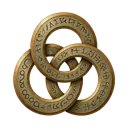
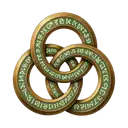
Show remnant portraits and new faction symbols, and keep Ashen immune to touch.
Dead players use their blue remnant portrait wherever a role portrait is already shown. Lumen and Unaligned symbols are the approved art, cache-busted. Ashen players cannot be marked Ash Touched or Mire Touched.

Changed region(s): [[0.0938, 0.0938, 0.9062, 0.9062]]

diff --git a/src/App.jsx b/src/App.jsx
@@ -1,24 +1,52 @@
 import { useEffect, useMemo, useState } from "react";
 
 const TOKEN_KEY = "aol-seat-token";
+const ASSET_VERSION = "3";
 
-function Portrait({ roleId, name, size = 112 }) {
+function symbolFile(team) {
+  if (team === "Ashen" || team === "ashen") return "symbol-ashen-128";
+  if (team === "Unaligned" || team === "unaligned") return "symbol-unaligned-128";
+  return "symbol-lumen-128";
+}
+
+function symbolSrc(team) {
+  return `/symbols/${symbolFile(team)}.webp?v=${ASSET_VERSION}`;
+}
+
+function Portrait({ roleId, name, size = 112, dead = false }) {
   if (!roleId) return null;
+  const src = dead
+    ? `/portraits-remnant/${roleId}-remnant.webp?v=${ASSET_VERSION}`
+    : `/portraits/${roleId}.webp?v=${ASSET_VERSION}`;
+  const height = size === 112 ? Math.round(size * 1.25) : Math.round(size * 4 / 3);
   return (
     <img
-      src={`/portraits/${roleId}.webp`}
+      src={src}
       alt=""
       width={size}
-      height={size}
+      height={height}
+      data-testid={dead ? "remnant-portrait" : "portrait"}
+      data-role={roleId}
       className="object-cover"
-      style={{ width: size, height: size === 112 ? Math.round(size * 1.25) : size }}
+      style={{ width: size, height }}
     />
   );
 }
 
 function Symbol({ team, size = 22 }) {
-  const file = team === "Ashen" || team === "ashen" ? "symbol-ashen-128" : team === "Unaligned" || team === "unaligned" ? "symbol-unaligned-128" : "symbol-lumen-128";
-  return <img src={`/symbols/${file}.webp`} alt="" width={size} height={size} style={{ width: size, height: size }} />;
+  return <img src={symbolSrc(team)} alt="" data-testid={`symbol-${symbolFile(team)}`} width={size} height={size} style={{ width: size, height: size }} />;
+}
+
+function FrameCorners({ team }) {
+  const spots = [
+    { top: 4, left: 4 },
+    { top: 4, right: 4 },
+    { bottom: 4, left: 4 },
+    { bottom: 4, right: 4 },
+  ];
+  return spots.map((spot) => (
+    <img key={`${spot.top ?? "b"}-${spot.left ?? "r"}`} src={symbolSrc(team)} alt="" data-testid="frame-symbol" className="pointer-events-none absolute h-5 w-5" width={20} height={20} style={spot} />
+  ));
 }
 
 function Crest({ roleId, alignment, size = 76 }) {
@@ -417,19 +445,19 @@ function GmTable({ state, act }) {
       {state.players.map((player) => (
         <article key={player.id} className="panel p-4" data-testid="player-row">
           <div className="flex items-center gap-3">
-            <Portrait roleId={player.roleId} name={player.roleName} size={72} />
+            <Portrait roleId={player.roleId} name={player.roleName} size={72} dead={!player.alive} />
             <div>
               <h3 className="text-lg font-semibold">{player.name} {!player.alive && <span className="text-[#e15b4c]">· dead</span>}</h3>
-              <p className="text-[#e6c27a]">{player.roleName || "Undealt"} · {player.alignment}</p>
+              <p className="flex items-center text-[#e6c27a]"><Symbol team={player.alignment} /> {player.roleName || "Undealt"} · {player.alignment}</p>
             </div>
           </div>
           <div className="mt-2 flex flex-wrap gap-1 text-xs">
             {chips(player).map((chip) => <span key={chip} className="rounded-full border border-[#8a7038] px-2 py-1">{chip}</span>)}
-            <button type="button" className="rounded-full border border-[#c9a85a] px-2 py-1" onClick={() => act({ type: "ash-touched", playerId: player.id })}>Set Ash Touched</button>
+            <button type="button" data-testid="set-ash" className="rounded-full border border-[#c9a85a] px-2 py-1 disabled:opacity-40" disabled={player.alignment === "Ashen"} title={player.alignment === "Ashen" ? "Ashen are immune" : "Set Ash Touched"} onClick={() => act({ type: "ash-touched", playerId: player.id })}>Set Ash Touched</button>
             <button type="button" data-testid="undo-ash" className="rounded-full border border-[#c9a85a] px-2 py-1" onClick={() => act({ type: "undo-ash", playerId: player.id })}>Undo Ash Touched</button>
             <button type="button" data-testid="gm-kill" className="rounded-full border border-[#e15b4c] px-2 py-1" onClick={() => act({ type: "gm-kill", playerId: player.id })}>Kill player</button>
             <button type="button" data-testid="undo-kill" className="rounded-full border border-[#e15b4c] px-2 py-1" onClick={() => act({ type: "undo-kill", playerId: player.id })}>Undo kill</button>
-            <button type="button" data-testid="gm-mire" className="rounded-full border border-[#c9a85a] px-2 py-1" onClick={() => act({ type: "gm-mire", playerId: player.id })}>Set Mire Touched</button>
+            <button type="button" data-testid="gm-mire" className="rounded-full border border-[#c9a85a] px-2 py-1 disabled:opacity-40" disabled={player.alignment === "Ashen"} title={player.alignment === "Ashen" ? "Ashen are immune" : "Set Mire Touched"} onClick={() => act({ type: "gm-mire", playerId: player.id })}>Set Mire Touched</button>
             <button type="button" data-testid="undo-mire" className="rounded-full border border-[#c9a85a] px-2 py-1" onClick={() => act({ type: "undo-mire", playerId: player.id })}>Undo Mire Touched</button>
           </div>
           <label className="mt-3 grid gap-1 text-xs text-[#d9c7b6]">
@@ -591,7 +619,15 @@ function Voting({ state, act }) {
     <section className="panel grid gap-3 p-4" data-testid="voting-tab">
       <h2 className="serif text-2xl">Nominations</h2>
       {(state.nominations || []).length === 0 && <p className="text-sm text-[#d9c7b6]">No nominations yet.</p>}
-      {(state.nominations || []).map((row, index) => <p key={index} className="text-sm">{row.byName} nominated {row.targetName}.</p>)}
+      {(state.nominations || []).map((row, index) => {
+        const person = state.players.find((p) => p.name === row.targetName);
+        return (
+          <p key={index} className="flex items-center gap-2 text-sm">
+            {person?.roleId && <Portrait roleId={person.roleId} name={person.roleName} size={40} dead={!person.alive} />}
+            {row.byName} nominated {row.targetName}.
+          </p>
+        );
+      })}
       <h2 className="serif text-2xl">Votes</h2>
       {(state.votes || []).length === 0 && <p className="text-sm text-[#d9c7b6]">No votes yet.</p>}
       {(state.votes || []).map((row) => <p key={row.name} className="text-sm">{row.name} voted {row.choice}.</p>)}
@@ -697,12 +733,12 @@ function RoleHome({ state }) {
       <article className="panel p-4">
         {you.roleId ? (
           <div>
-            <div className="relative">
-              <img src={`/symbols/${you.alignment === "Ashen" ? "symbol-ashen" : you.alignment === "Unaligned" ? "symbol-unaligned" : "symbol-lumen"}-128.webp`} alt="" className="absolute right-2 top-2 h-6 w-6" />
-              <Portrait roleId={you.roleId} name={you.roleName} size={280} />
+            <div className="relative inline-block" data-testid="role-frame">
+              <FrameCorners team={you.alignment} />
+              <Portrait roleId={you.roleId} name={you.roleName} size={220} dead={!you.alive} />
             </div>
             <h2 className="serif mt-3 text-3xl uppercase" data-testid="role-name">{you.roleName}</h2>
-            <p className="label text-xs text-[#c9a85a]"><Symbol team={you.alignment} /> {you.alignment}</p>
+            <p className="label flex items-center text-xs text-[#c9a85a]" data-testid="role-chip"><Symbol team={you.alignment} /> {you.alignment}</p>
             {you.roleId === "the-ashen-child" && <p className="mt-2 bg-[#9e1b1b] px-2 py-1 text-xs uppercase tracking-widest">Do not let them execute you.</p>}
             {you.roleId === "the-shadow-blade" && <p className="mt-2 italic text-[#9c8dae]">Earn trust first, strike later.</p>}
             {you.roleId === "voice-of-the-accord" && <p className="label mt-2 text-xs text-[#e8cf8a]">Your vote counts as 2.</p>}
@@ -715,7 +751,7 @@ function RoleHome({ state }) {
         ) : <h2 className="serif text-3xl">Waiting for the deal</h2>}
         {you.ability && <p className="mt-3 text-[#f3eedf]">{you.ability}</p>}
         {you.teammates && (
-          <p className="mt-3 text-sm" data-testid="teammates">Ashen teammates: {you.teammates.length ? you.teammates.join(", ") : "you are the only one"}.</p>
+          <p className="mt-3 flex items-center text-sm" data-testid="teammates"><Symbol team="Ashen" /> Ashen teammates: {you.teammates.length ? you.teammates.join(", ") : "you are the only one"}.</p>
         )}
       </article>
       <section className="panel p-4" data-testid="seat-list">
@@ -755,7 +791,7 @@ function Catalogue({ roles, onClose }) {
     roles: roles.filter((role) => role.team === team),
   })), [roles]);
   return (
-    <div className="fixed inset-0 z-10 overflow-auto bg-[#140e0c]/95 p-4" data-testid="catalogue">
+    <div className="fixed inset-0 z-10 overflow-auto bg-[#140e0c] p-4" data-testid="catalogue">
       <div className="mx-auto max-w-3xl">
         <div className="flex items-center justify-between">
           <h2 className="serif text-3xl">Every role</h2>
@@ -764,7 +800,7 @@ function Catalogue({ roles, onClose }) {
         <p className="mt-2 text-sm text-[#a89a86]">The full catalogue of all 26 roles, the same in every game. It does not say which roles were dealt.</p>
         {groups.map((group) => (
           <section key={group.team} className="mt-4">
-            <h3 className="label text-xs text-[#c9a85a]"><Symbol team={group.team} /> {group.team}</h3>
+            <h3 className="label flex items-center text-xs text-[#c9a85a]" data-testid={`catalogue-${group.team}`}><Symbol team={group.team} /> {group.team}</h3>
             {group.roles.map((role) => <RoleCard key={role.id} role={role} />)}
           </section>
         ))}
@@ -782,7 +818,7 @@ function RoleCard({ role }) {
       <div>
         <h4 className="serif text-xl uppercase">{role.name}</h4>
         <p className="text-sm text-[#a89a86]">{role.short}</p>
-        <p className="text-xs uppercase tracking-wider text-[#b5a394]">{role.team}</p>
+        <p className="flex items-center text-xs uppercase tracking-wider text-[#b5a394]"><Symbol team={role.team} size={16} /> {role.team}</p>
         <button type="button" data-testid={`more-info-${role.id}`} className="mt-2 text-sm underline" onClick={() => setOpen((value) => !value)}>More info</button>
         {open && <p className="mt-2 text-sm" data-testid={`role-detail-${role.id}`}>{role.ability}</p>}
         {open && thin && <p className="mt-2 text-xs text-[#e6c27a]" data-testid="thin-role">The rule text for this role is short.</p>}

diff --git a/local-render/canvas-source.tsx b/local-render/canvas-source.tsx
@@ -1961,7 +1961,10 @@ function resolveAshFall(state: GameState): GameState {
     }
     const t = playerById(next.players, tid);
     if (!t || !t.alive) continue;
-    if (t.team === "Ashen") continue;
+    if (t.team === "Ashen") {
+      next = addLog(next, "Poison on " + t.name + " did not land: Ashen are immune to Mire Touched.");
+      continue;
+    }
     if (immunityBlocks(t, "poison")) {
       next = addLog(
         next,
@@ -2077,6 +2080,7 @@ function resolveAshFall(state: GameState): GameState {
         // Design default D14 (Nov 21 audit): The Lumen Guard is immune to all poison. D45: the pool is living players other
         // than the Eye (off: the Eye can poison itself); it can land on the checked player.
         const pool = livingPlayers(next.players).filter((p: Player) => {
+          if (p.team === "Ashen") return false;
           if (immunityBlocks(p, "poison")) return false;
           if (dd(next, "D45") && p.id === actor.id) return false;
           return true;
@@ -2430,6 +2434,10 @@ function executePlayer(state: GameState, id: string, voterIdsForParadox: string[
     for (const vid of voterIdsForParadox) {
       const v = playerById(next.players, vid);
       if (!v || !v.alive) continue;
+      if (v.team === "Ashen") {
+        next = addLog(next, v.name + " voted for The Luminary Paradox but is not poisoned: Ashen are immune to Mire Touched.");
+        continue;
+      }
       if (immunityBlocks(v, "poison")) {
         next = addLog(next, v.name + " voted for The Luminary Paradox but is not poisoned: The Lumen Guard is immune to all poison (Design default D14, Nov 21 audit).");
         continue;
@@ -2662,7 +2670,7 @@ function applyForcedDeal(
     p.roleId = seat.roleId;
     p.team = role.team;
     p.charges = role.charged ? charges : 0;
-    p.ashTouched = Boolean(seat.ashTouched);
+    p.ashTouched = Boolean(seat.ashTouched) && role.team !== "Ashen";
     if (seat.roleId === "the-syndic") p.syndicateMember = true;
     return p;
   });
@@ -2706,6 +2714,8 @@ function applyForcedDeal(
   };
   next = addLog(next, distributionLabel(names.length, unalignedPick, rechargeAt));
   next = addLog(next, "Roles have been assigned (forced deal). The Ashen Tyrant is in the game.");
+  const refused = clean.filter((seat: { ashTouched?: boolean; roleId: string; name: string }) => seat.ashTouched && roleOf(seat.roleId).team === "Ashen");
+  for (const seat of refused) next = addLog(next, seat.name + " was not marked Ash Touched. Ashen are immune.");
   const atCount = players.filter((pl: Player) => pl.ashTouched).length;
   if (atCount > 1) next = addLog(next, "Warning: " + atCount + " players are marked Ash Touched. Caden: exactly 1 per game. Fix it on the modifier tracker.");
   next = setupStartInfo(next);
@@ -2813,6 +2823,7 @@ function canEchoCopy(roleId: string): boolean {
 // Caden ruling (Nov 16, 2026): exactly 1 Ash Touched per game, placed by the GM. Setting one clears any other.
 function setAshTouched(prev: GameState, playerId: string): GameState {
   const p = playerById(prev.players, playerId);
+  if (p && p.team === "Ashen") return addLog(prev, p.name + " was not marked Ash Touched. Ashen are immune.");
   const next = { ...prev, players: prev.players.map((x: Player) => ({ ...x, ashTouched: x.id === playerId })) };
   return addLog(next, p ? "GM placed Ash Touched on " + p.name + " (GM only; exactly 1 per game)." : "GM cleared Ash Touched.");
 }
@@ -5838,8 +5849,11 @@ function ModifierForm(props: {
       <div style={wrap}>
         <button
           type="button"
+          title={p.team === "Ashen" ? "Ashen are immune" : "Ash Touched"}
+          disabled={p.team === "Ashen"}
           style={btnStyle(p.ashTouched ? "gold" : "quiet")}
           onClick={() => {
+            if (p.team === "Ashen") return;
             // Caden: exactly 1 Ash Touched per game. Turning it on here clears it from everyone else.
             const on = !p.ashTouched;
             for (const q of props.players) {
@@ -5850,7 +5864,7 @@ function ModifierForm(props: {
         >
           Ash Touched{p.ashTouched ? " (on — the 1 per game)" : ""}
         </button>
-        <button type="button" style={btnStyle(p.mireTouched ? "gold" : "quiet")} onClick={() => toggle("mireTouched")}>
+        <button type="button" title={p.team === "Ashen" ? "Ashen are immune" : "Mire Touched"} disabled={p.team === "Ashen"} style={btnStyle(p.mireTouched ? "gold" : "quiet")} onClick={() => { if (p.team !== "Ashen") toggle("mireTouched"); }}>
           Mire Touched{p.mireTouched ? " (on)" : ""}
         </button>
         <button type="button" style={btnStyle(p.shielded ? "gold" : "quiet")} onClick={() => toggle("shielded")}>

diff --git a/test/batch.test.js b/test/batch.test.js
@@ -2,7 +2,9 @@ import assert from "node:assert/strict";
 import test from "node:test";
 import { start } from "../server/index.js";
 import { reduce, viewFor } from "../server/table.mjs";
-import { ROLES, applyForcedDeal, blankState, startRound } from "../sim/dist/engine.js";
+import { createHash } from "node:crypto";
+import fs from "node:fs";
+import { ROLES, applyForcedDeal, blankState, resolveAshFall, setAshTouched, startRound, submitPlayerAction } from "../sim/dist/engine.js";
 
 async function call(port, path, { token, body } = {}) {
   const res = await fetch(`http://127.0.0.1:${port}${path}`, {
@@ -271,4 +273,46 @@ test("Ashen Mind list, GM kill and mire notes, and no automatic ending", () => {
   const mindEnded = viewFor(state, { kind: "player", playerId: byName("Mina").id, name: "Mina" }, extras);
   assert.equal(linked(mindEnded, "Fern", "the-foresight-elder", "The Foresight Elder"), false);
   assert.equal(linked(mindEnded, "Cora", "the-civic-luminary", "The Civic Luminary"), false);
+});
+
+test("new faction symbols, remnant portraits, and Ashen immunity to Ash and Mire Touched", () => {
+  const hash = (file) => createHash("sha256").update(fs.readFileSync(file)).digest("hex");
[3 lines of base64/hex data omitted]
+  const slugs = fs.readdirSync("public/portraits").filter((name) => name.endsWith(".webp")).map((name) => name.replace(/\.webp$/, ""));
+  assert.equal(slugs.length, 26);
+  for (const slug of slugs) assert.equal(fs.existsSync(`public/portraits-remnant/${slug}-remnant.webp`), true, slug);
+
+  let state = applyForcedDeal(blankState(), [
+    { name: "Tor", roleId: "the-ashen-tyrant", ashTouched: true },
+    { name: "Mire", roleId: "the-ashen-mirebane" },
+    { name: "Ann", roleId: "voice-of-the-accord" },
+    { name: "Ben", roleId: "the-lumen-guard" },
+    { name: "Cora", roleId: "the-civic-luminary" },
+  ]);
+  const id = (name) => state.players.find((p) => p.name === name).id;
+  assert.equal(state.players.find((p) => p.name === "Tor").ashTouched, false);
+  assert.match(state.log.map((line) => line.text).join("\n"), /Ashen are immune/);
+  state = setAshTouched(state, id("Tor"));
+  assert.equal(state.players.find((p) => p.name === "Tor").ashTouched, false);
+  state = setAshTouched(state, id("Ann"));
+  assert.equal(state.players.find((p) => p.name === "Ann").ashTouched, true);
+  assert.equal(state.players.find((p) => p.name === "Tor").ashTouched, false);
+  const refused = reduce({ ...state, holdWin: true }, { type: "gm-mire", playerId: id("Tor") });
+  assert.equal(refused.players.find((p) => p.name === "Tor").gmMire, undefined);
+  assert.equal(refused.players.find((p) => p.name === "Tor").mireTouched, false);
+  const noted = reduce(refused, { type: "gm-mire", playerId: id("Ann") });
+  assert.equal(noted.players.find((p) => p.name === "Ann").gmMire, true);
+  const annView = viewFor(noted, { kind: "player", playerId: id("Ann"), name: "Ann" }, { chats: [], statements: [], code: "ART" });
+  assert.equal(JSON.stringify(annView).includes("gmMire"), false);
+
+  state = startRound({ ...state, holdWin: true }, true);
+  const mire = state.players.find((p) => p.name === "Mire");
+  const tor = state.players.find((p) => p.name === "Tor");
+  state = submitPlayerAction(state, mire, "Mirebane poison", [tor.id], false, "", "ashFall", false);
+  state = resolveAshFall(state);
+  assert.equal(state.players.find((p) => p.name === "Tor").mireTouched, false);
+  assert.equal(state.players.find((p) => p.name === "Tor").poisonCount, 0);
+  assert.match(state.log.map((line) => line.text).join("\n"), /Poison on Tor did not land: Ashen are immune to Mire Touched/);
 });

diff --git a/test/e2e.spec.js b/test/e2e.spec.js
@@ -167,24 +167,43 @@ test("GM kill and mire notes stay private, and the table does not end itself", a
   const tyrant = gm.getByTestId("player-row").filter({ hasText: "The Ashen Tyrant" });
   const tyrantName = (await tyrant.locator("h3").innerText()).trim();
   const seat = players[NAMES.indexOf(tyrantName)];
+  await expect(tyrant.getByTestId("set-ash")).toBeDisabled();
+  await expect(tyrant.getByTestId("gm-mire")).toBeDisabled();
+  await expect(tyrant.getByTestId("set-ash")).toHaveAttribute("title", "Ashen are immune");
+  await expect(tyrant.getByTestId("gm-mire")).toHaveAttribute("title", "Ashen are immune");
   await tyrant.getByTestId("gm-kill").click();
   await expect(tyrant.locator("h3")).toContainText("dead");
+  await expect(tyrant.getByTestId("remnant-portrait")).toHaveAttribute("src", /the-ashen-tyrant-remnant\.webp/);
+  await expect(seat.getByTestId("remnant-portrait")).toHaveAttribute("src", /the-ashen-tyrant-remnant\.webp/);
   await expect(gm.getByTestId("win-suggestion")).toContainText("Lumen win condition met");
   await expect(gm.locator("h1")).toContainText("Roles dealt");
   await expect(seat.getByTestId("public-log")).toContainText(`Died tonight: ${tyrantName}.`);
   await expect(seat.getByText("win condition met")).toHaveCount(0);
+  await gm.getByTestId("gm-table").screenshot({ path: "/opt/cursor/artifacts/gm-table-remnant.png" });
+  await seat.screenshot({ path: "/opt/cursor/artifacts/dead-player-role-card.png", fullPage: true });
   await tyrant.getByTestId("undo-kill").click();
   await expect(tyrant.locator("h3")).not.toContainText("dead");
+  await expect(tyrant.getByTestId("portrait")).toHaveAttribute("src", /\/portraits\/the-ashen-tyrant\.webp/);
+  await expect(seat.getByTestId("portrait")).toHaveAttribute("src", /\/portraits\/the-ashen-tyrant\.webp/);
   await expect(gm.getByTestId("win-suggestion")).toHaveCount(0);
   await expect(seat.getByTestId("public-log")).toHaveCount(0);
 
-  const first = gm.getByTestId("player-row").first();
-  const firstName = (await first.locator("h3").innerText()).trim();
-  await first.getByTestId("gm-mire").click();
-  await expect(first).toContainText("Mire note");
-  await expect(players[NAMES.indexOf(firstName)].getByText("Mire note")).toHaveCount(0);
-  await first.getByTestId("undo-mire").click();
-  await expect(first.getByText("Mire note")).toHaveCount(0);
+  const lumen = gm.getByTestId("player-row").filter({ hasText: "· Lumen" }).first();
+  const lumenName = (await lumen.locator("h3").innerText()).trim();
+  const lumenPage = players[NAMES.indexOf(lumenName)];
+  await lumen.getByTestId("gm-mire").click();
+  await expect(lumen).toContainText("Mire note");
+  await expect(lumenPage.getByText("Mire note")).toHaveCount(0);
+  await lumen.getByTestId("undo-mire").click();
+  await expect(lumen.getByText("Mire note")).toHaveCount(0);
+  await lumenPage.screenshot({ path: "/opt/cursor/artifacts/lumen-role-card.png", fullPage: true });
+  await lumenPage.getByTestId("open-catalogue").click();
+  await expect(lumenPage.getByTestId("catalogue-Lumen").getByTestId("symbol-symbol-lumen-128")).toHaveAttribute("src", /symbol-lumen-128\.webp\?v=/);
+  await expect(lumenPage.getByTestId("catalogue-Unaligned").getByTestId("symbol-symbol-unaligned-128")).toHaveAttribute("src", /symbol-unaligned-128\.webp\?v=/);
+  await lumenPage.getByTestId("catalogue-Lumen").screenshot({ path: "/opt/cursor/artifacts/all-roles-lumen.png" });
+  await lumenPage.getByTestId("catalogue-Unaligned").scrollIntoViewIfNeeded();
+  await lumenPage.getByTestId("catalogue-Unaligned").screenshot({ path: "/opt/cursor/artifacts/all-roles-unaligned.png" });
+  await lumenPage.getByTestId("catalogue").screenshot({ path: "/opt/cursor/artifacts/all-roles-symbols.png" });
 
   await gm.getByTestId("end-game").click();
   await gm.getByTestId("end-side").selectOption("lumen");
